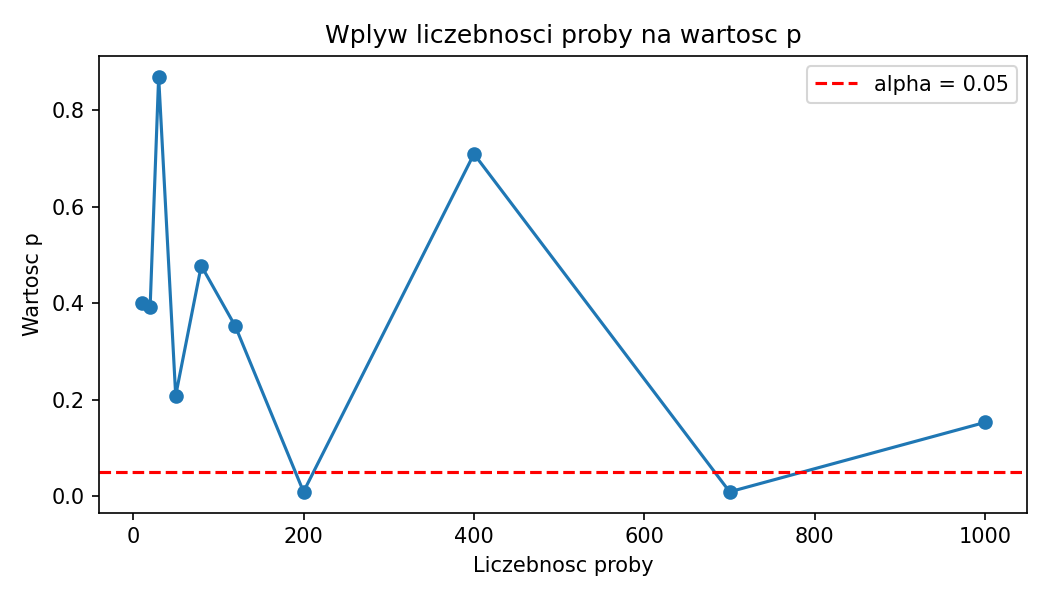
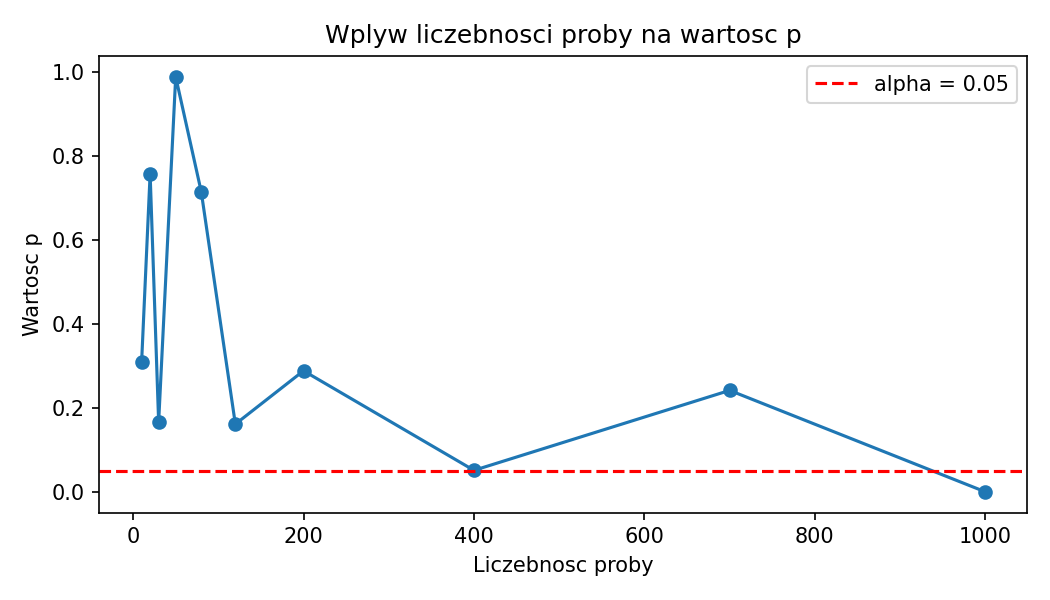
Poprawa zadania

diff --git a/Lista2/Zad6.py b/Lista2/Zad6.py
@@ -1,4 +1,4 @@
-"""Zadanie 6: Istotnosc korelacji dla danych skorelowanych i nieskorelowanych."""
+"""Zadanie 6: Testy normalnosci Shapiro-Wilka i Kolmogorowa-Smirnowa."""
 
 from __future__ import annotations
 
@@ -6,35 +6,49 @@ import numpy as np
 from scipy import stats
 
 
-def report(title: str, x: np.ndarray, y: np.ndarray) -> None:
-    """Wypisuje wspolczynniki i p-value dla korelacji Pearsona i Spearmana."""
-    pearson_r, pearson_p = stats.pearsonr(x, y)
-    spearman_rho, spearman_p = stats.spearmanr(x, y)
+def report_normality(sample: np.ndarray, name: str, alpha: float = 0.05) -> None:
+    """Wypisuje wyniki testu Shapiro-Wilka i Kolmogorowa-Smirnowa dla jednej zmiennej."""
+    shapiro_stat, shapiro_p = stats.shapiro(sample)
+    mean = float(np.mean(sample))
+    std = float(np.std(sample, ddof=1))
+    ks_stat, ks_p = stats.kstest(sample, "norm", args=(mean, std))
 
-    print(f"\n{title}")
-    print(f"Pearson r = {pearson_r:.4f}, p-value = {pearson_p:.6f}")
-    print(f"Spearman rho = {spearman_rho:.4f}, p-value = {spearman_p:.6f}")
+    print(f"\n{name}")
+    print(f"Parametry probki: srednia = {mean:.4f}, odchylenie standardowe = {std:.4f}")
+    print(f"Shapiro-Wilk: statystyka W = {shapiro_stat:.4f}, p-value = {shapiro_p:.6f}")
+    print(f"Kolmogorow-Smirnow: statystyka D = {ks_stat:.4f}, p-value = {ks_p:.6f}")
     print(
-        "Wniosek (alpha=0.05):",
-        "korelacja istotna" if (pearson_p < 0.05 or spearman_p < 0.05) else "brak istotnej korelacji",
+        f"Wniosek Shapiro-Wilk (alpha={alpha}):",
+        "odrzucamy normalnosc" if shapiro_p < alpha else "brak podstaw do odrzucenia normalnosci",
+    )
+    print(
+        f"Wniosek Kolmogorow-Smirnow (alpha={alpha}):",
+        "odrzucamy normalnosc" if ks_p < alpha else "brak podstaw do odrzucenia normalnosci",
     )
 
 
 def main() -> None:
-    """Generuje dane skorelowane i nieskorelowane oraz porownuje wyniki testow."""
+    """Generuje dane i wykonuje testy normalnosci dla kazdej zmiennej."""
     rng = np.random.default_rng(20260325)
     n = 150
 
+    # Para zalezna liniowo z szumem normalnym.
     x_corr = rng.normal(0, 1, n)
     y_corr = 0.85 * x_corr + rng.normal(0, 0.35, n)
 
+    # Para niezalezna: dwa niezalezne losowania z N(0, 1).
     x_uncorr = rng.normal(0, 1, n)
     y_uncorr = rng.normal(0, 1, n)
 
-    print("=== Lista2/Zad6: Korelacja dla danych skorelowanych i nieskorelowanych ===")
-    print("Zbior danych: dwie pary danych syntetycznych (skorelowane i nieskorelowane), n=150")
-    report("Dane skorelowane:", x_corr, y_corr)
-    report("Dane nieskorelowane:", x_uncorr, y_uncorr)
+    print("=== Lista2/Zad6: Testy normalnosci (Shapiro-Wilk i Kolmogorow-Smirnow) ===")
+    print("Zbior danych: dwie pary danych syntetycznych, n=150")
+    print("Para skorelowana: x~N(0,1), y=0.85*x+epsilon, epsilon~N(0,0.35)")
+    print("Para nieskorelowana: x~N(0,1), y~N(0,1), losowane niezaleznie")
+
+    report_normality(x_corr, "Dane skorelowane - zmienna x")
+    report_normality(y_corr, "Dane skorelowane - zmienna y")
+    report_normality(x_uncorr, "Dane nieskorelowane - zmienna x")
+    report_normality(y_uncorr, "Dane nieskorelowane - zmienna y")
 
 
 if __name__ == "__main__":

diff --git a/Lista3/Zad5.py b/Lista3/Zad5.py
@@ -20,12 +20,17 @@ def main() -> None:
     print("Zbior danych: dwie grupy normalne A~N(50,10), B~N(50.8,10); zmienna liczebnosc proby od 10 do 1000")
     print("Liczebnosc | Srednia A | Srednia B | p-value")
 
+    # Inicjalizacja populacji raz dla size = 10000
+    grupa_a = rng.normal(loc=50.0, scale=10.0, size=10000)
+    grupa_b = rng.normal(loc=50.8, scale=10.0, size=10000)
+
     for n in sample_sizes:
-        grupa_a = rng.normal(loc=50.0, scale=10.0, size=n)
-        grupa_b = rng.normal(loc=50.8, scale=10.0, size=n)
-        _, p_value = stats.ttest_ind(grupa_a, grupa_b, equal_var=False)
+        # Losowanie próby z populacji
+        sample_a = rng.choice(grupa_a, size=n, replace=False)
+        sample_b = rng.choice(grupa_b, size=n, replace=False)
+        _, p_value = stats.ttest_ind(sample_a, sample_b, equal_var=False)
         p_values.append(float(p_value))
-        print(f"{n:10d} | {np.mean(grupa_a):8.3f} | {np.mean(grupa_b):8.3f} | {p_value:7.5f}")
+        print(f"{n:10d} | {np.mean(sample_a):8.3f} | {np.mean(sample_b):8.3f} | {p_value:7.5f}")
 
     fig, ax = plt.subplots(figsize=(7, 4))
     ax.plot(sample_sizes, p_values, marker="o")

diff --git a/Lista2/Zad7.py b/Lista2/Zad7.py
@@ -32,7 +32,9 @@ def main() -> None:
     y_uncorr = rng.normal(0, 1, n)
 
     print("=== Lista2/Zad7: Istotnosc korelacji ===")
-    print("Zbior danych: dwie pary danych syntetycznych (skorelowane i nieskorelowane), n=150")
+    print("Zbior danych: dwie pary danych syntetycznych, n=150")
+    print("Para skorelowana: x~N(0,1), y=0.8*x+epsilon, epsilon~N(0,0.4)")
+    print("Para nieskorelowana: x~N(0,1), y~N(0,1), losowane niezaleznie")
     report("Dane skorelowane:", x_corr, y_corr)
     report("Dane nieskorelowane:", x_uncorr, y_uncorr)
 
